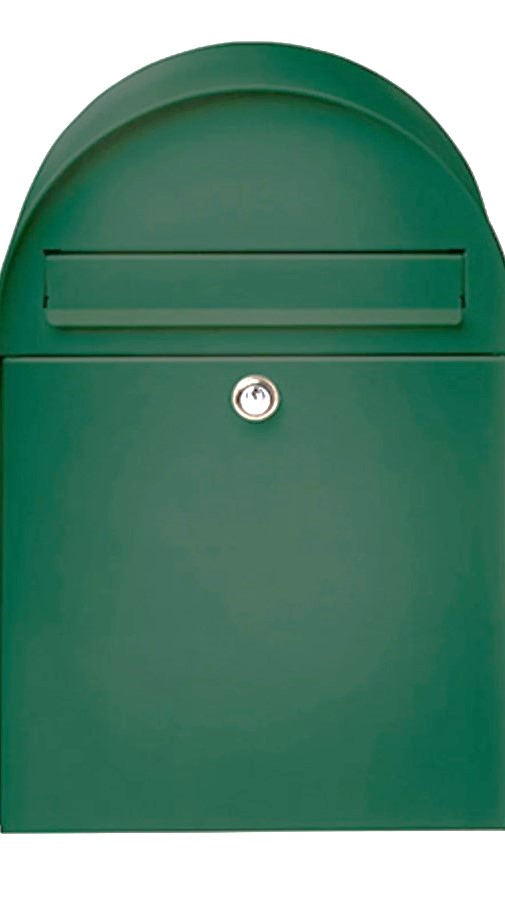
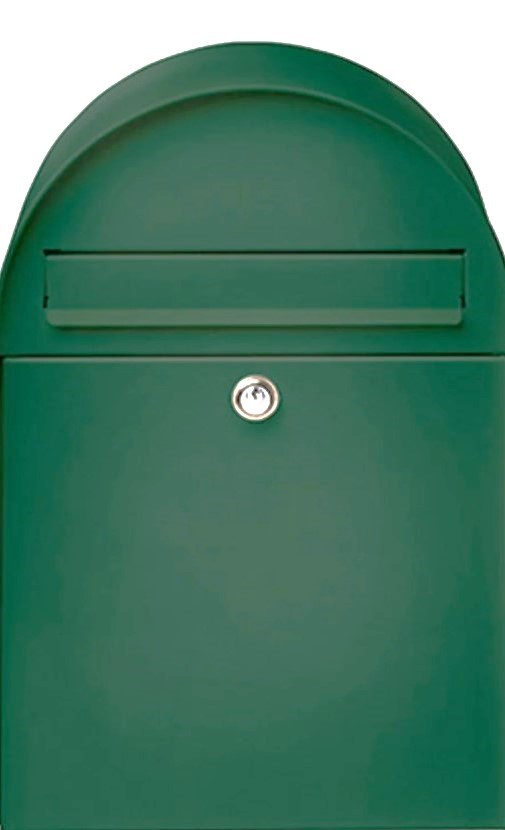
Fix: profile backroundpicture

Changed region(s): [[0.0, 0.2711, 1.0, 0.5422], [0.0, 0.9036, 1.0, 1.0], [0.0, 0.0301, 1.0, 0.3313]]

diff --git a/lib/src/features/settings/presentation/settings_screen.dart b/lib/src/features/settings/presentation/settings_screen.dart
@@ -29,14 +29,14 @@ class SettingsScreen extends ConsumerWidget {
                     Color.fromARGB(180, 146, 227, 169), BlendMode.overlay),
                 image: AssetImage('assets/postilaatikko.jpg'),
                 fit: BoxFit.cover,
-                alignment: FractionalOffset(0.5, -5),
+                // alignment: FractionalOffset(0.5, -5),
               ),
             ),
             child: Center(
               child: Stack(
                 children: [
                   Positioned(
-                    top: 258.0,
+                    top: 230.0,
                     left: 55.0,
                     right: 50.0,
                     child: Container(
